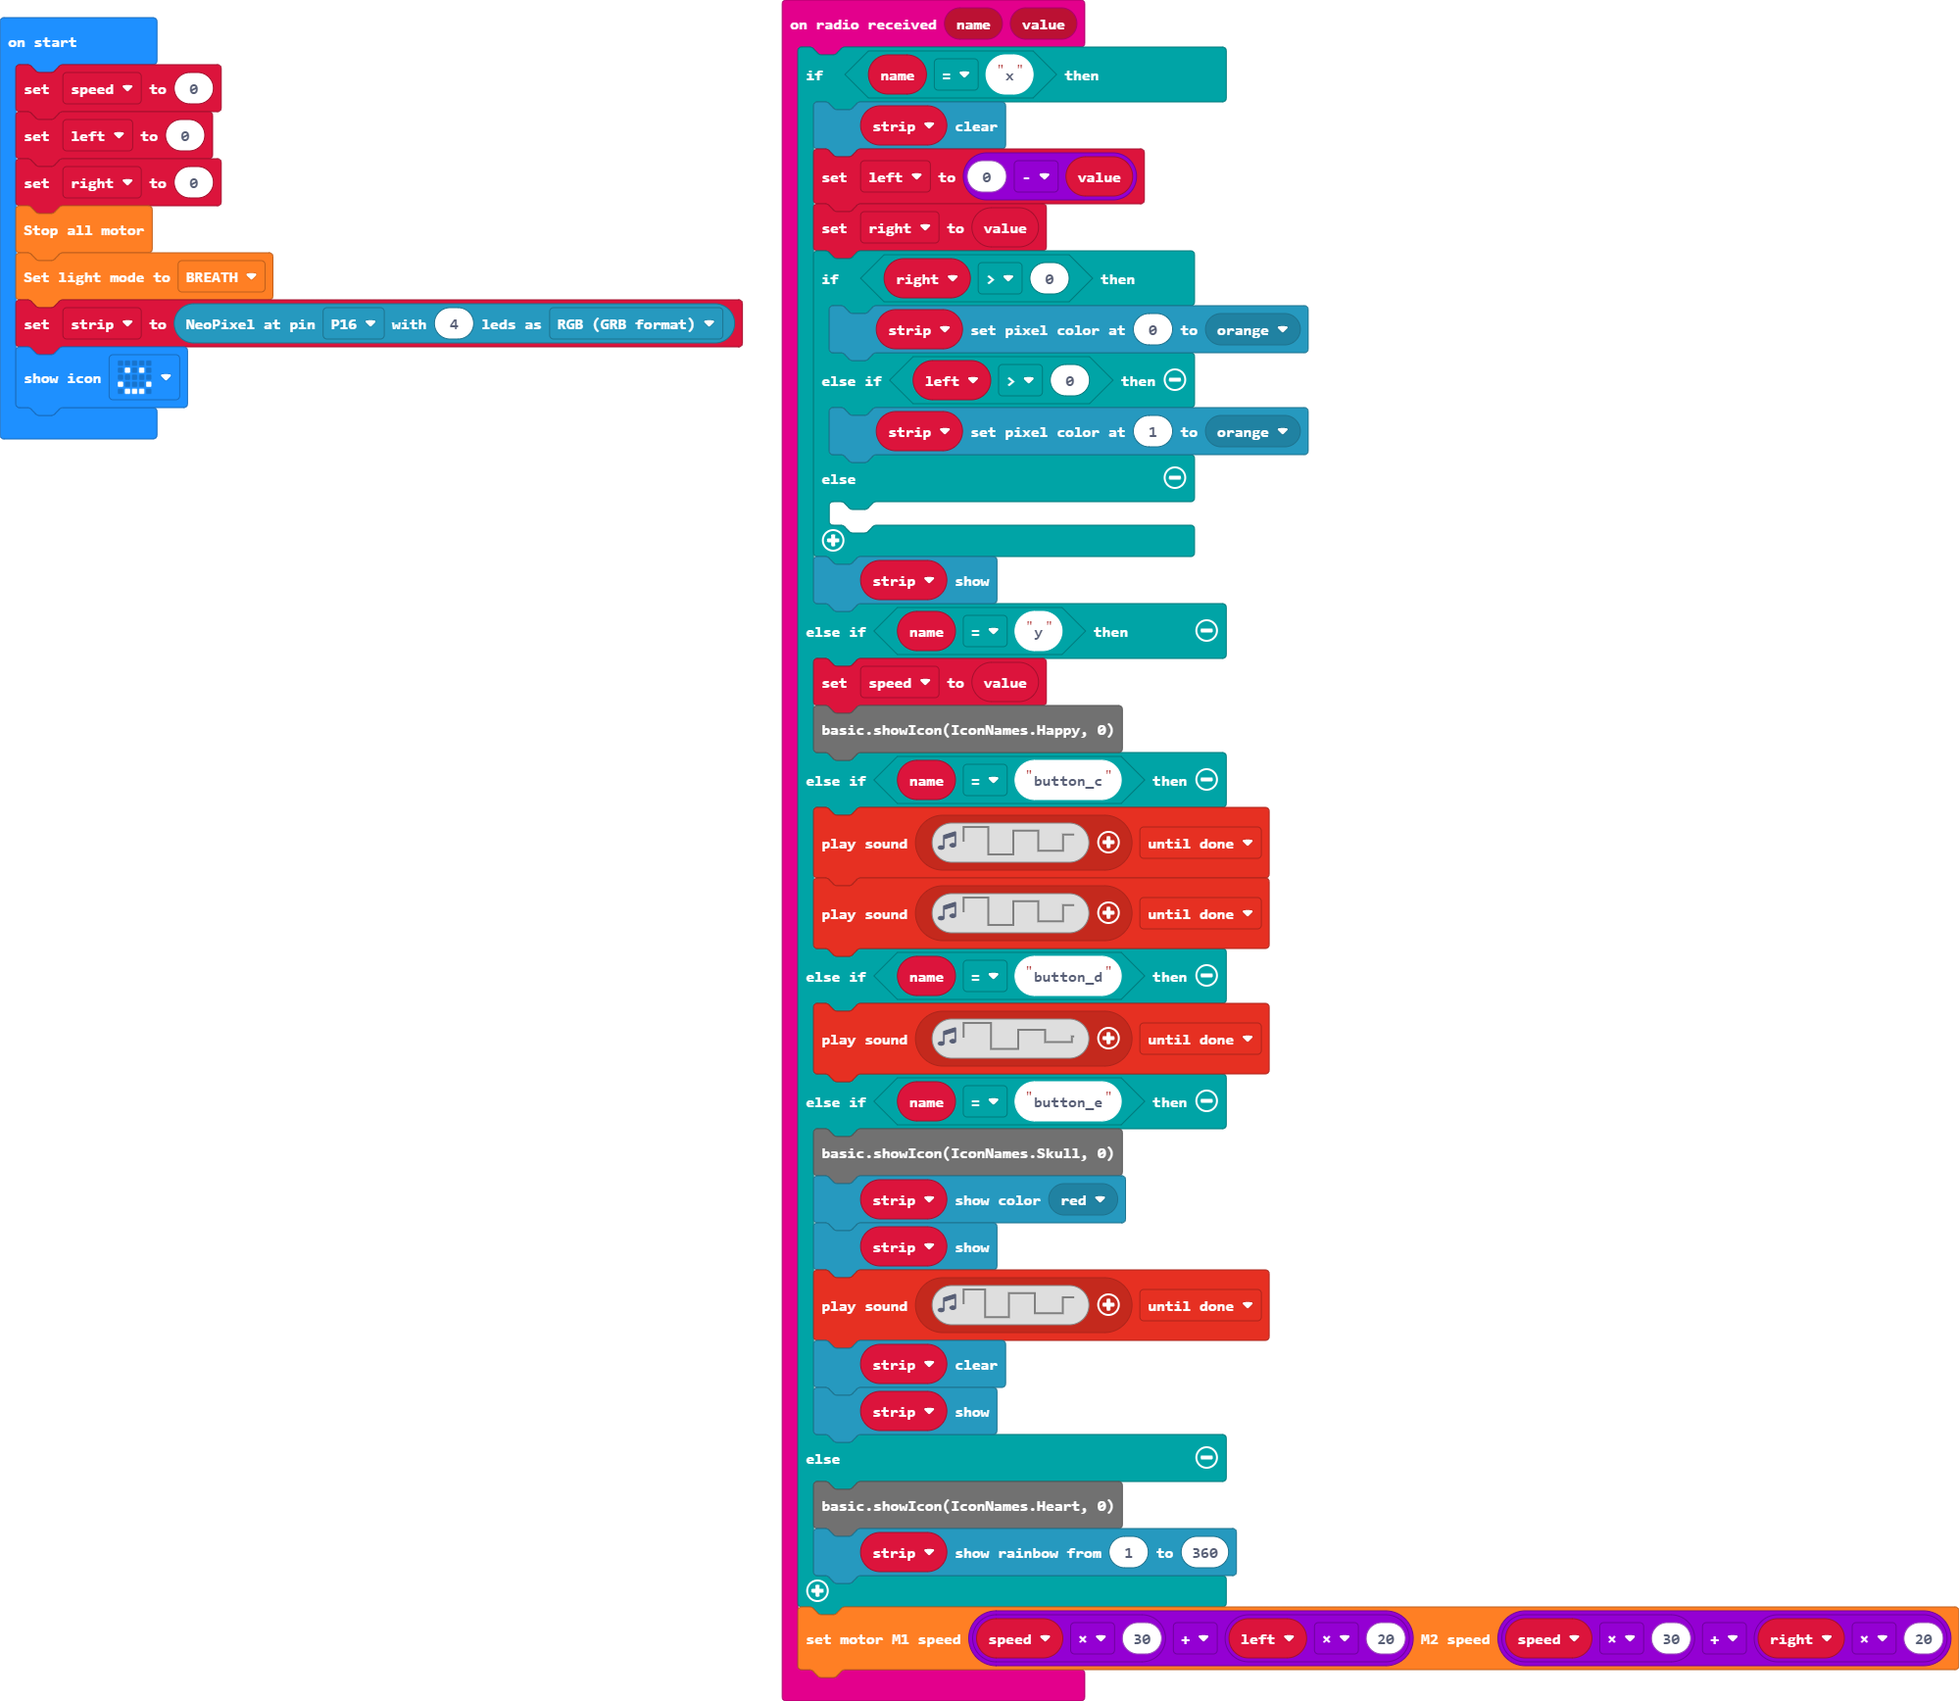
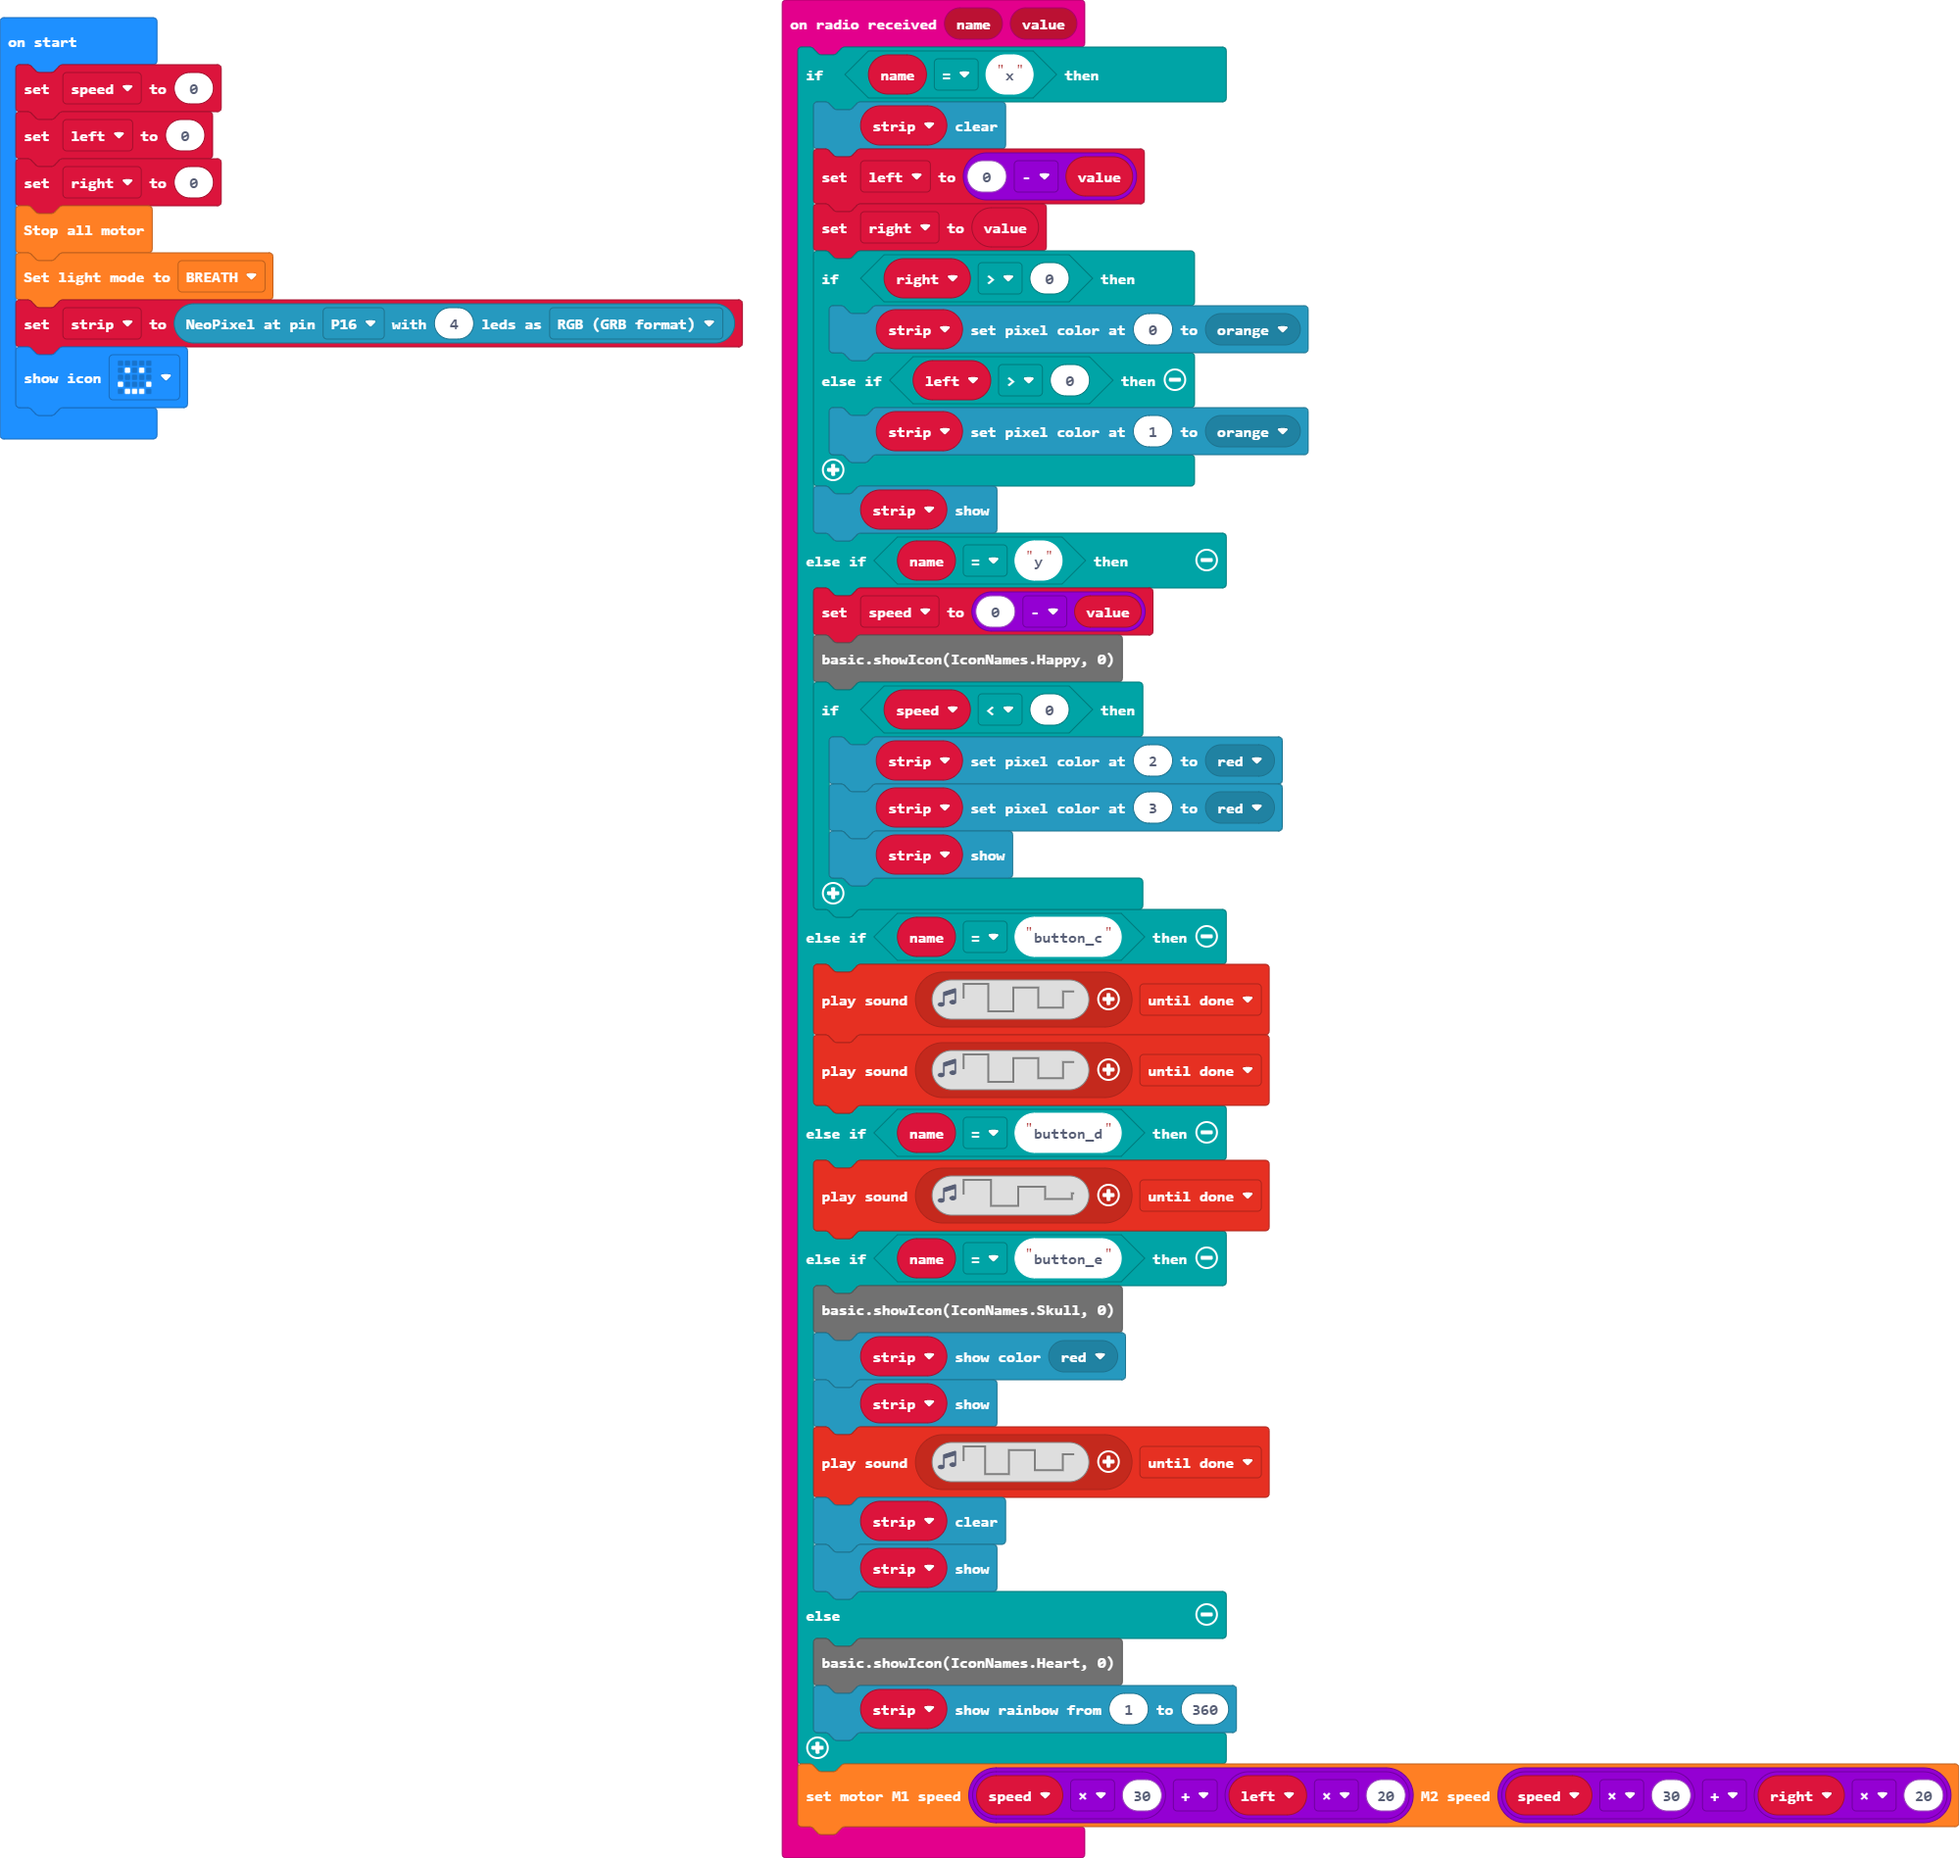
invert speed

Changed region(s): [[0.0, 0.0, 1.0, 0.9954]]

diff --git a/main.ts b/main.ts
@@ -7,13 +7,16 @@ radio.onReceivedValue(function (name, value) {
             strip.setPixelColor(0, neopixel.colors(NeoPixelColors.Orange))
         } else if (left > 0) {
             strip.setPixelColor(1, neopixel.colors(NeoPixelColors.Orange))
-        } else {
-        	
         }
         strip.show()
     } else if (name == "y") {
-        speed = value
+        speed = 0 - value
         basic.showIcon(IconNames.Happy, 0)
+if (speed < 0) {
+            strip.setPixelColor(2, neopixel.colors(NeoPixelColors.Red))
+            strip.setPixelColor(3, neopixel.colors(NeoPixelColors.Red))
+            strip.show()
+        }
     } else if (name == "button_c") {
         music.playSoundEffect(music.createSoundEffect(WaveShape.Square, 924, 894, 255, 101, 100, SoundExpressionEffect.None, InterpolationCurve.Linear), SoundExpressionPlayMode.UntilDone)
         music.playSoundEffect(music.createSoundEffect(WaveShape.Square, 924, 894, 255, 101, 100, SoundExpressionEffect.None, InterpolationCurve.Linear), SoundExpressionPlayMode.UntilDone)
